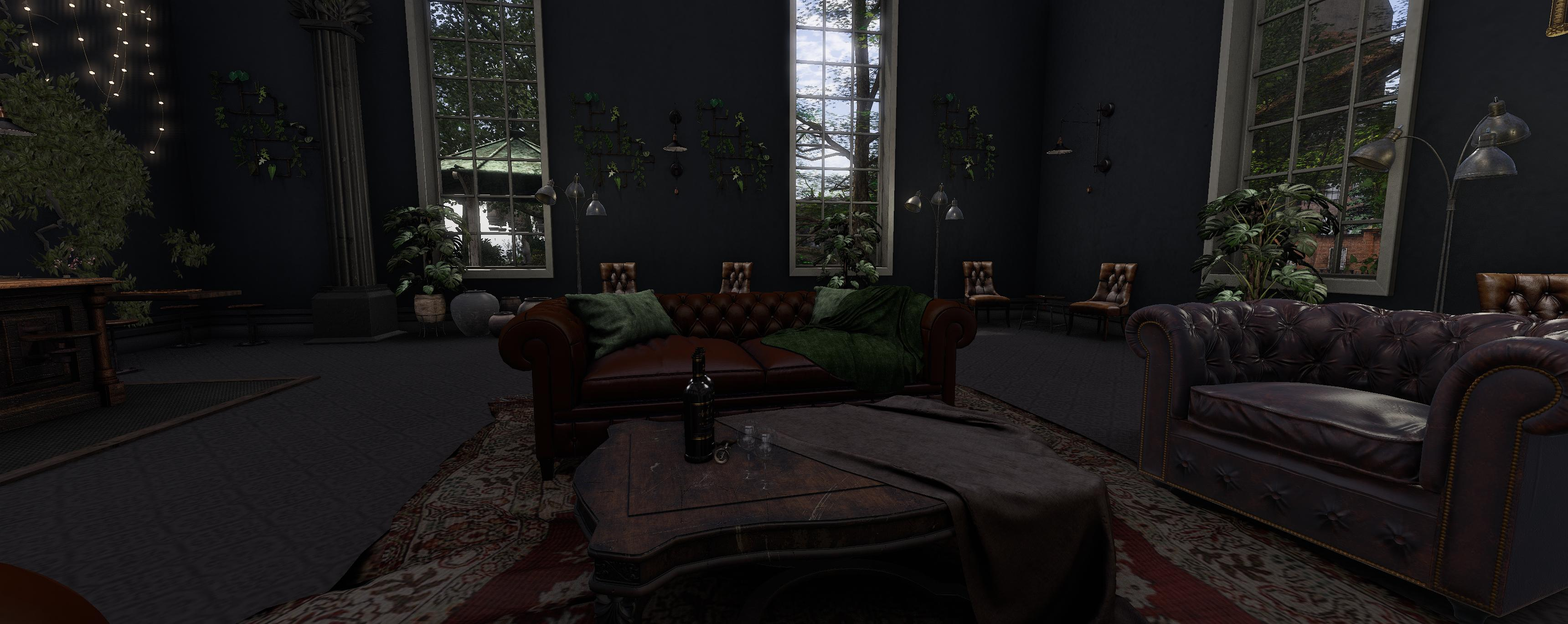
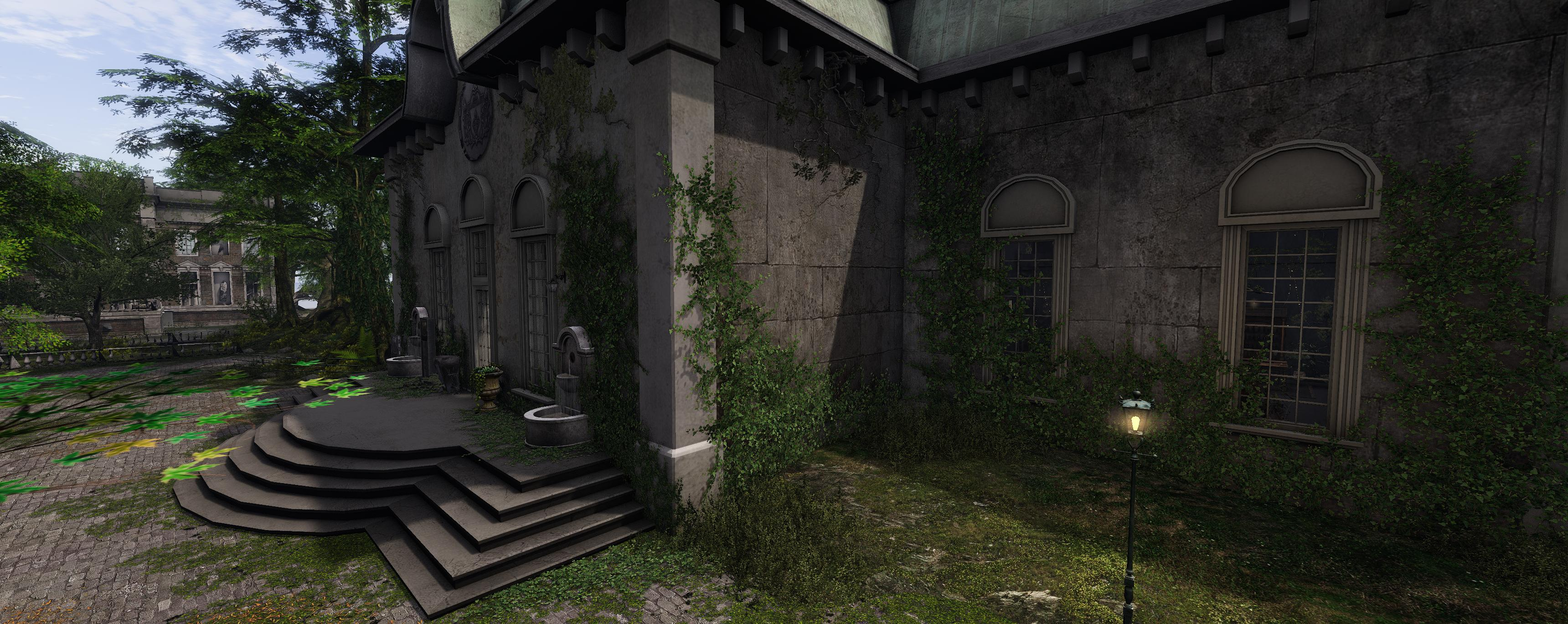
More polish on landing page

diff --git a/docs/index.html b/docs/index.html
@@ -92,33 +92,76 @@
         </div>
       </div>
       <div class="gallery" data-gallery tabindex="0" aria-label="Prism gallery. Use the arrow keys to browse.">
-        <button class="gallery-item" type="button" data-lightbox="landing-assets/image1.jpg"
-          data-caption="Mountain lake landscape captured in Prism.">
+        <button class="gallery-item gallery-item-wide" type="button" data-lightbox="landing-assets/image1.jpg"
+          data-caption="Mountain lake landscape [Mindful Cove]">
           <img src="landing-assets/image1.jpg" alt="Mountain lake landscape" loading="lazy">
           <span class="gallery-label">Mountain lake <b>↗</b></span>
         </button>
         <button class="gallery-item" type="button" data-lightbox="landing-assets/image2.jpg"
-          data-caption="Water and shoreline detail captured in Prism.">
+          data-caption="Water and shoreline detail [Mindful Cove]">
           <img src="landing-assets/image2.jpg" alt="Lake water and shoreline" loading="lazy">
           <span class="gallery-label">Water detail <b>↗</b></span>
         </button>
         <button class="gallery-item" type="button" data-lightbox="landing-assets/image3.jpg"
-          data-caption="Avatar portrait captured in Prism.">
+          data-caption="Avatar portrait">
           <img src="landing-assets/image3.jpg" alt="Avatar portrait with red lighting" loading="lazy">
           <span class="gallery-label">Avatar portrait <b>↗</b></span>
         </button>
         <button class="gallery-item" type="button" data-lightbox="landing-assets/image4.jpg"
-          data-caption="Courtyard scene captured in Prism.">
-          <img src="landing-assets/image4.jpg" alt="Courtyard and stone building" loading="lazy">
-          <span class="gallery-label">Courtyard <b>↗</b></span>
+          data-caption="Avatar portrait">
+          <img src="landing-assets/image4.jpg" alt="Blonde avatar portrait" loading="lazy">
+          <span class="gallery-label">Avatar portrait <b>↗</b></span>
+        </button>
+        <button class="gallery-item" type="button" data-lightbox="landing-assets/TPM/Snapshot_2026-09-17_19371101.png"
+          data-caption="Botanical park entrance [Templemore City]">
+          <img src="landing-assets/TPM/Snapshot_2026-09-17_19371101.png" alt="Botanical park entrance" loading="lazy">
+          <span class="gallery-label">Botanical park <b>↗</b></span>
+        </button>
+        <button class="gallery-item" type="button" data-lightbox="landing-assets/TPM/Snapshot_2026-09-17_19503201.png"
+          data-caption="Ornate library interior [Templemore City]">
+          <img src="landing-assets/TPM/Snapshot_2026-09-17_19503201.png" alt="Ornate library interior" loading="lazy">
+          <span class="gallery-label">Library interior <b>↗</b></span>
+        </button>
+        <button class="gallery-item" type="button" data-lightbox="landing-assets/TPM/Snapshot_2026-09-17_19533101.png"
+          data-caption="Dark apothecary interior [Templemore City]">
+          <img src="landing-assets/TPM/Snapshot_2026-09-17_19533101.png" alt="Dark apothecary interior" loading="lazy">
+          <span class="gallery-label">Apothecary <b>↗</b></span>
+        </button>
+        <button class="gallery-item" type="button" data-lightbox="landing-assets/TPM/Snapshot_2026-09-17_20024501.png"
+          data-caption="Woodland house scene [Templemore City]">
+          <img src="landing-assets/TPM/Snapshot_2026-09-17_20024501.png" alt="Woodland house scene" loading="lazy">
+          <span class="gallery-label">Woodland house <b>↗</b></span>
+        </button>
+        <button class="gallery-item" type="button" data-lightbox="landing-assets/TPM/Snapshot_2026-09-17_20281101.png"
+          data-caption="Street market scene [Templemore City]">
+          <img src="landing-assets/TPM/Snapshot_2026-09-17_20281101.png" alt="Street market scene" loading="lazy">
+          <span class="gallery-label">Street market <b>↗</b></span>
         </button>
         <button class="gallery-item" type="button" data-lightbox="landing-assets/image5.jpg"
-          data-caption="Interior scene captured in Prism.">
-          <img src="landing-assets/image5.jpg" alt="Dark interior with seating and plants" loading="lazy">
+          data-caption="Courtyard scene [Sanctuary, EST 2008]">
+          <img src="landing-assets/image5.jpg" alt="Courtyard and stone building" loading="lazy">
+          <span class="gallery-label">Courtyard <b>↗</b></span>
+        </button>
+        <button class="gallery-item" type="button" data-lightbox="landing-assets/image6.jpg"
+          data-caption="Interior scene [Sanctuary, EST 2008]">
+          <img src="landing-assets/image6.jpg" alt="Dark interior with seating and plants" loading="lazy">
           <span class="gallery-label">Interior <b>↗</b></span>
         </button>
       </div>
       <p class="gallery-hint">Scroll to browse · click an image to expand</p>
+    </section>
+
+    <section class="ai-disclosure section-shell" aria-labelledby="ai-disclosure-title">
+      <h2 id="ai-disclosure-title">AI Use Disclosure</h2>
+      <div class="ai-disclosure-content">
+        Prism began as a private experiment to see how quickly a coding agent could help me build a viewer with more
+        advanced rendering features. The answer was about a week. At that point I had most of the functionality the
+        viewer has at the time of this writing. I originally intended to keep it private, but decided to publish it on
+        GitHub in case anyone found it useful.<br><br>This viewer was made with assistance from a coding agent. I
+        understand that AI use in creative and technical work is a serious and often contentious subject, and I
+        respect that some people may not want to use software made this way.
+        Please don’t download it, if it isn’t for you.
+      </div>
     </section>
 
     <section class="download section-shell" id="download">
@@ -143,6 +186,10 @@
   <div class="lightbox" data-lightbox-modal aria-hidden="true" role="dialog" aria-modal="true"
     aria-label="Expanded gallery image">
     <button class="lightbox-backdrop" type="button" data-lightbox-close aria-label="Close expanded image"></button>
+    <button class="lightbox-nav lightbox-prev" type="button" data-lightbox-prev
+      aria-label="Previous gallery image">←</button>
+    <button class="lightbox-nav lightbox-next" type="button" data-lightbox-next
+      aria-label="Next gallery image">→</button>
     <div class="lightbox-content">
       <button class="lightbox-close" type="button" data-lightbox-close aria-label="Close expanded image">×</button>
       <img data-lightbox-image src="" alt="">

diff --git a/docs/site.css b/docs/site.css
@@ -59,10 +59,10 @@ h2 { margin: 0; font-size: clamp(2rem, 4vw, 3.2rem); line-height: 1.1; letter-sp
 .gallery-button:hover { border-color: var(--green); color: var(--green-bright); }
 .gallery { display: flex; gap: 12px; padding: 0 0 14px; overflow-x: auto; scroll-behavior: smooth; scrollbar-color: var(--green) var(--surface); }
 .gallery:focus-visible { outline: 1px solid var(--green); outline-offset: 6px; }
-.gallery-item { flex: 0 0 280px; height: 220px; padding: 0; position: relative; overflow: hidden; border: 1px solid var(--line); border-radius: 3px; background: var(--surface); text-align: left; }
-.gallery-item-wide { flex-basis: min(600px, 70vw); cursor: pointer; }
+.gallery-item { flex: 0 0 280px; height: 220px; padding: 0; position: relative; overflow: hidden; cursor: pointer; border: 1px solid var(--line); border-radius: 3px; background: var(--surface); text-align: left; }
+.gallery-item-wide { flex-basis: min(600px, 70vw); }
 .gallery-item img { display: block; width: 100%; height: 100%; object-fit: cover; transition: transform .3s ease; }
-.gallery-item-wide:hover img { transform: scale(1.03); }
+.gallery-item:hover img { transform: scale(1.03); }
 .gallery-label { position: absolute; right: 16px; bottom: 13px; left: 16px; z-index: 1; color: var(--text); font-size: 12px; font-weight: 600; }
 .gallery-label::before { content: ''; position: absolute; inset: -42px -16px -14px; z-index: -1; background: linear-gradient(transparent, rgba(0, 0, 0, .85)); }
 .gallery-label b { float: right; color: var(--green); font-size: 17px; font-weight: 400; line-height: 1; }
@@ -70,6 +70,10 @@ h2 { margin: 0; font-size: clamp(2rem, 4vw, 3.2rem); line-height: 1.1; letter-sp
 .gallery-placeholder-amber { color: rgba(221, 160, 106, .8); background: linear-gradient(135deg, #30251d, #171310); }
 .gallery-placeholder-blue { color: rgba(134, 190, 208, .8); background: linear-gradient(135deg, #18262a, #101719); }
 .gallery-hint { margin: 12px 0 0; color: var(--faint); font-family: var(--mono); font-size: 10px; }
+
+.ai-disclosure { margin-bottom: 48px; padding: 28px 32px; border: 1px solid var(--line); border-left: 3px solid var(--green); border-radius: 3px; background: var(--surface); }
+.ai-disclosure h2 { margin-bottom: 12px; font-size: 1.35rem; letter-spacing: -.03em; }
+.ai-disclosure-content { min-height: 36px; color: var(--muted); font-size: 14px; line-height: 1.7; }
 
 .download { display: flex; align-items: center; justify-content: space-between; gap: 36px; padding: 42px; border: 1px solid var(--line); border-radius: 3px; background: var(--surface); }
 .download h2 { font-size: clamp(1.8rem, 3vw, 2.7rem); }
@@ -80,7 +84,11 @@ h2 { margin: 0; font-size: clamp(2rem, 4vw, 3.2rem); line-height: 1.1; letter-sp
 
 .lightbox { display: none; position: fixed; inset: 0; z-index: 20; place-items: center; padding: 52px 24px 24px; }
 .lightbox.is-open { display: grid; }
-.lightbox-backdrop { position: absolute; inset: 0; cursor: pointer; border: 0; background: rgba(2, 5, 4, .92); backdrop-filter: blur(10px); }
+.lightbox-backdrop { position: absolute; inset: 0; z-index: 0; cursor: pointer; border: 0; background: rgba(2, 5, 4, .92); backdrop-filter: blur(10px); }
+.lightbox-nav { width: 42px; height: 42px; position: fixed; top: 50%; z-index: 2; cursor: pointer; transform: translateY(-50%); border: 1px solid var(--line); border-radius: 3px; background: var(--surface); color: var(--text); font-size: 20px; line-height: 1; }
+.lightbox-nav:hover { border-color: var(--green); color: var(--green-bright); }
+.lightbox-prev { left: 18px; }
+.lightbox-next { right: 18px; }
 .lightbox-content { width: min(100%, 2200px); max-width: calc(100vw - 48px); position: relative; z-index: 1; }
 .lightbox-content img { display: block; width: auto; max-width: 100%; max-height: calc(100vh - 120px); margin: 0 auto; border: 1px solid var(--line); }
 .lightbox-content p { margin: 12px 42px 0 0; color: var(--muted); font-size: 12px; }
@@ -99,8 +107,14 @@ h2 { margin: 0; font-size: clamp(2rem, 4vw, 3.2rem); line-height: 1.1; letter-sp
   .features { grid-template-columns: 1fr; padding-bottom: 90px; }
   .feature-card { min-height: 0; }
   .gallery-section { padding-bottom: 90px; }
+  .ai-disclosure { padding: 24px; }
   .download { display: block; padding: 28px; }
   .download-actions { justify-content: start; margin-top: 24px; }
+  .lightbox { padding-inline: 12px; }
+  .lightbox-content { max-width: calc(100vw - 24px); }
+  .lightbox-nav { width: 36px; height: 36px; }
+  .lightbox-prev { left: 8px; }
+  .lightbox-next { right: 8px; }
   .site-footer { display: block; line-height: 2.4; }
   .site-footer span { display: block; }
 }

diff --git a/docs/site.js b/docs/site.js
@@ -4,7 +4,11 @@
   const modal = document.querySelector('[data-lightbox-modal]');
   const modalImage = document.querySelector('[data-lightbox-image]');
   const modalCaption = document.querySelector('[data-lightbox-caption]');
+  const previousButton = document.querySelector('[data-lightbox-prev]');
+  const nextButton = document.querySelector('[data-lightbox-next]');
   let lastFocused;
+  let currentIndex = 0;
+  let wheelLocked = false;
 
   const moveGallery = (direction) => {
     gallery.scrollBy({ left: direction * Math.min(gallery.clientWidth * .72, 620), behavior: 'smooth' });
@@ -18,6 +22,17 @@
     if (event.key === 'ArrowRight') moveGallery(1);
   });
 
+  gallery.addEventListener('wheel', (event) => {
+    const distance = Math.abs(event.deltaX) > Math.abs(event.deltaY) ? event.deltaX : event.deltaY;
+    const maxScroll = gallery.scrollWidth - gallery.clientWidth;
+    const nextScroll = gallery.scrollLeft + distance;
+    const atStart = distance < 0 && gallery.scrollLeft <= 0;
+    const atEnd = distance > 0 && gallery.scrollLeft >= maxScroll;
+    if (!distance || maxScroll <= 0 || atStart || atEnd) return;
+    event.preventDefault();
+    gallery.scrollLeft = Math.max(0, Math.min(maxScroll, nextScroll));
+  }, { passive: false });
+
   const closeLightbox = () => {
     modal.classList.remove('is-open');
     modal.setAttribute('aria-hidden', 'true');
@@ -26,19 +41,49 @@
     lastFocused?.focus();
   };
 
-  items.forEach((item) => item.addEventListener('click', () => {
-    lastFocused = item;
+  const showItem = (index) => {
+    currentIndex = (index + items.length) % items.length;
+    const item = items[currentIndex];
     modalImage.src = item.dataset.lightbox;
     modalImage.alt = item.querySelector('img').alt;
     modalCaption.textContent = item.dataset.caption;
+  };
+
+  const openLightbox = (item) => {
+    lastFocused = item;
+    showItem(items.indexOf(item));
     modal.classList.add('is-open');
     modal.setAttribute('aria-hidden', 'false');
     document.body.style.overflow = 'hidden';
     modal.querySelector('.lightbox-close').focus();
-  }));
+  };
+
+  const navigateLightbox = (direction) => showItem(currentIndex + direction);
+
+  items.forEach((item) => item.addEventListener('click', () => openLightbox(item)));
+  previousButton.addEventListener('click', () => navigateLightbox(-1));
+  nextButton.addEventListener('click', () => navigateLightbox(1));
+
+  modal.addEventListener('wheel', (event) => {
+    if (!modal.classList.contains('is-open')) return;
+    event.preventDefault();
+    if (wheelLocked || event.deltaY === 0) return;
+    wheelLocked = true;
+    navigateLightbox(event.deltaY > 0 ? 1 : -1);
+    window.setTimeout(() => { wheelLocked = false; }, 350);
+  }, { passive: false });
 
   modal.querySelectorAll('[data-lightbox-close]').forEach((button) => button.addEventListener('click', closeLightbox));
   document.addEventListener('keydown', (event) => {
-    if (event.key === 'Escape' && modal.classList.contains('is-open')) closeLightbox();
+    if (!modal.classList.contains('is-open')) return;
+    if (event.key === 'Escape') closeLightbox();
+    if (event.key === 'ArrowLeft') {
+      event.preventDefault();
+      navigateLightbox(-1);
+    }
+    if (event.key === 'ArrowRight') {
+      event.preventDefault();
+      navigateLightbox(1);
+    }
   });
 })();
